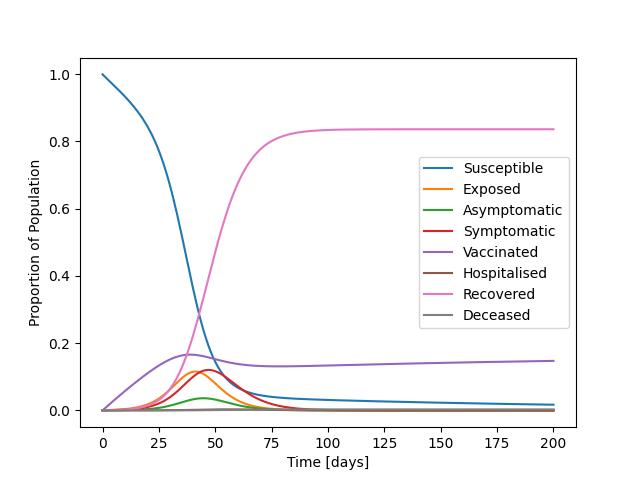
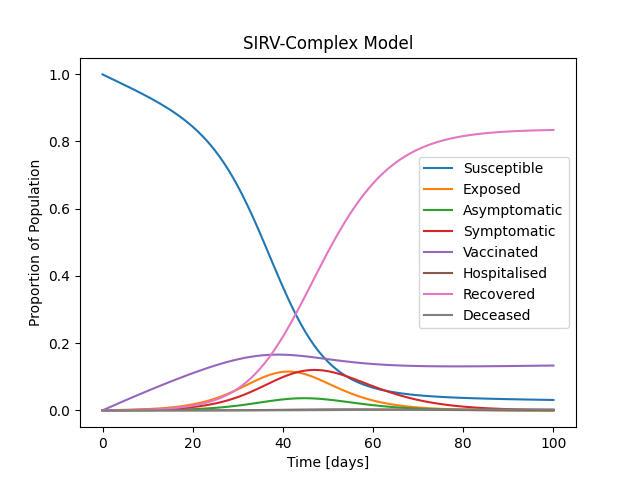
Made stochastic ODEs for noisy model and obtained likelihood values.

diff --git a/run_noisy_model.py b/run_noisy_model.py
@@ -1,22 +1,21 @@
-from models import models
+from noisy_models import noisy_models
 import numpy as np
 from scipy.integrate import solve_ivp
 
 """
-    This file runs models based on the specified model.
+    This file runs noisy models based on the specified model.
 """
 
-
-def run_model(model, population, R_0, vac_frac, nat_imm_rate, vac_ef, vaccination_rate, days=50, stochastic=False):
+def run_noisy_model(model, population, R_0, vac_frac, nat_imm_rate, vac_ef, vaccination_rate, days=50, stochastic=False, std_f=0.05):
     if model == 'sirv':
-        return run_sirv(models[model], population, R_0, vac_frac, nat_imm_rate, vac_ef, days, stochastic)
+        return run_sirv(noisy_models[model], population, R_0, vac_frac, nat_imm_rate, vac_ef, days, stochastic, std_f)
     elif model == 'sirv_c':
-        return run_sirv_c(models[model], population, R_0, vac_frac, nat_imm_rate, vac_ef, vaccination_rate, days, stochastic)
+        return run_sirv_c(noisy_models[model], population, R_0, vac_frac, nat_imm_rate, vac_ef, vaccination_rate, days, stochastic, std_f)
     else:
         raise ValueError('Model not available')
 
 
-def run_sirv(func, pop, R_0, vac_frac, nat_imm_rate, vac_ef, days, stochastic=False):
+def run_sirv(func, pop, R_0, vac_frac, nat_imm_rate, vac_ef, days, stochastic=False, std_f=0.05):
     t_span = np.array([0, days])
     t = np.linspace(t_span[0], t_span[1], t_span[1] + 1)
 
@@ -24,13 +23,7 @@ def run_sirv(func, pop, R_0, vac_frac, nat_imm_rate, vac_ef, days, stochastic=Fa
     infected = 1e3*(1-vac_frac)
     recovered = pop*nat_imm_rate
     x_0 = [susceptible, infected, recovered, (pop-susceptible-infected-recovered)]
-
-    if stochastic:
-        R_0 = np.random.normal(loc=4.5, scale=1)  # Draw an R_0 value from a Gaussian distribution
-        g = np.random.normal(loc=(1/6), scale=(1/25))  # Draw an inverse serial number from a Gaussian distribution
-        args = (R_0*g, g, vac_ef, pop)
-    else:
-        args = (R_0*(1/6), (1/6), vac_ef, pop)
+    args = (R_0*(1/6), (1/6), vac_ef, pop, std_f)
 
     solutions = solve_ivp(func, t_span, x_0, args=args, t_eval=t)
     S = solutions.y[0]
@@ -41,10 +34,10 @@ def run_sirv(func, pop, R_0, vac_frac, nat_imm_rate, vac_ef, days, stochastic=Fa
     # Returns the growth rate as the R_t for all points in time
     R_t = [((1/args[1])*((I[i+1]-I[i])/(I[i]))+1) for i in range(len(I)-1)]
     
-    return [S, I, R, V], max(R_t), args
+    return [S, I, R, V], max(R_t)
 
 
-def run_sirv_c(func, pop, R_0, vac_frac, nat_imm_rate, vac_ef, vaccination_rate, days, stochastic=False):
+def run_sirv_c(func, pop, R_0, vac_frac, nat_imm_rate, vac_ef, vaccination_rate, days, stochastic=False, std_f=0.05):
     t_span = np.array([0, days])
     t = np.linspace(t_span[0], t_span[1], t_span[1] + 1)
 
@@ -52,15 +45,7 @@ def run_sirv_c(func, pop, R_0, vac_frac, nat_imm_rate, vac_ef, vaccination_rate,
     symptomatic = 1e3*(1-vac_frac)
     recovered = pop*nat_imm_rate
     x_0 = [susceptible, 0, 0, symptomatic, 0, recovered, 0, (pop-susceptible-symptomatic-recovered), 0, 0, 0]
-
-    if stochastic:
-        g = (1/6)
-        args = (R_0*g, R_0*g, vaccination_rate, 0.083333333, 0.15, 0.1, g, g, 0.075, 0.003428571, 0.025, (1-vac_ef)*R_0*g, (1-vac_ef)*R_0*g, 0.1, 0.00035, 0.1, 0.00125, 0.2, g)
-        args = np.array(args)
-        sigmas = 0.1*args
-        args = [np.random.normal(m, s) for m, s in zip(args, sigmas)]
-    else:
-        args = (R_0*(1/6), R_0*(1/6), vaccination_rate, 0.083333333, 0.15, 0.1, (1/6), (1/6), 0.075, 0.003428571, 0.025, (1-vac_ef)*R_0*(1/6), (1-vac_ef)*R_0*(1/6), 0.1, 0.00035, 0.1, 0.00125, 0.2, (1/6))
+    args = (R_0*(1/6), R_0*(1/6), vaccination_rate, 0.083333333, 0.15, 0.1, (1/6), (1/6), 0.075, 0.003428571, 0.025, (1-vac_ef)*R_0*(1/6), (1-vac_ef)*R_0*(1/6), 0.1, 0.00035, 0.1, 0.00125, 0.2, (1/6), std_f)
     
     solutions = solve_ivp(func, t_span, x_0, args=args, t_eval=t)
     S = solutions.y[0]
@@ -78,4 +63,4 @@ def run_sirv_c(func, pop, R_0, vac_frac, nat_imm_rate, vac_ef, vaccination_rate,
     # Returns the growth rate as the R_t for all points in time
     R_t = [((1/args[6])*((A[i+1]+Sy[i+1]+A_v[i+1]+Sy_v[i+1]-A[i]-Sy[i]-A_v[i]-Sy_v[i])/(A[i]+Sy[i]+A_v[i]+Sy_v[i]))+1) for i in range(len(Sy)-1)]
     
-    return [S, E, A, Sy, H, R, D, V, A_v, Sy_v, H_v], max(R_t), args
+    return [S, E, A, Sy, H, R, D, V, A_v, Sy_v, H_v], max(R_t)

diff --git a/noisy_models.py b/noisy_models.py
@@ -1,0 +1,80 @@
+import numpy as np
+
+"""
+    This file contains all the noisy (stochastic) compartmental models.
+"""
+
+
+def sirv_odes(t, x, b, g, v_e, N, std_f=0.05):
+    S = x[0]  # Susceptible
+    I = x[1]  # Infected
+    R = x[2]  # Recovered
+    V = x[3]  # Vaccinated
+
+    b = np.random.normal(b, std_f*b)
+    g = np.random.normal(g, std_f*g)
+    v_e = np.random.normal(v_e, std_f*v_e)
+
+    dSdt = -b*(I/N)*S
+    dIdt = b*(I/N)*S - g*I + b*(1-v_e)*(I/N)*V
+    dRdt = g*I
+    dVdt = -b*(1-v_e)*(I/N)*V
+
+    return [dSdt, dIdt, dRdt, dVdt]
+
+
+def sirv_c_odes(t, x, b_a, b_sy, v, e_a, e_sy, a, g_a, g_sy, g_h, h, d_h, b_a_v, b_sy_v, a_v, h_v, g_h_v, d_h_v, g_a_v, g_sy_v, std_f):    
+    S = x[0]  # Susceptible
+    E = x[1]  # Exposed
+    A = x[2]  # Asymptomatic
+    Sy = x[3]  # Symptomatic
+    H = x[4]  # Hospitalised
+    R = x[5]  # Recovered
+    D = x[6]  # Deceased
+    V = x[7]  # Vaccinated
+    A_v = x[8]  # Asymptomatic (vaccinated)
+    Sy_v = x[9]  # Symptomatic (vaccinated)
+    H_v = x[10]  # Hospitalised (vaccinated)
+    
+    N = np.sum([S, E, A, Sy, H, R, V, A_v, Sy_v, H_v])  # Dynamic population (excludes deceased people)
+    
+    b_a = abs(np.random.normal(b_a, std_f*b_a))
+    b_sy = abs(np.random.normal(b_sy, std_f*b_sy))
+    v = abs(np.random.normal(v, std_f*v))
+    e_a = abs(np.random.normal(e_a, std_f*e_a))
+    e_sy = abs(np.random.normal(e_sy, std_f*e_sy))
+    a = abs(np.random.normal(a, std_f*a))
+    g_a = abs(np.random.normal(g_a, std_f*g_a))
+    g_sy = abs(np.random.normal(g_sy, std_f*g_sy))
+    g_h = abs(np.random.normal(g_h, std_f*g_h))
+    h = abs(np.random.normal(h, std_f*h))
+    d_h = abs(np.random.normal(d_h, std_f*d_h))
+    b_a_v = abs(np.random.normal(b_a_v, std_f*b_a_v))
+    b_sy_v = abs(np.random.normal(b_sy_v, std_f*b_sy_v))
+    a_v = abs(np.random.normal(a_v, std_f*a_v))
+    h_v = abs(np.random.normal(h_v, std_f*h_v))
+    g_h_v = abs(np.random.normal(g_h_v, std_f*g_h_v))
+    d_h_v = abs(np.random.normal(d_h_v, std_f*d_h_v))
+    g_a_v = abs(np.random.normal(g_a_v, std_f*g_a_v))
+    g_sy_v = abs(np.random.normal(g_sy_v, std_f*g_sy_v))
+
+    dSdt = - b_a*((A+A_v)/N)*S - b_sy*((Sy+Sy_v)/N)*S - v*S
+    dEdt = b_a*((A+A_v)/N)*S + b_sy*((Sy+Sy_v)/N)*S - e_a*E - e_sy*E
+    dAdt = e_a*E - a*A - g_a*A
+    dSydt = e_sy*E + a*A - g_sy*Sy - h*Sy
+    dHdt = h*Sy - g_h*H - d_h*H
+    dRdt = g_a*A + g_sy*Sy + g_h*H + g_h_v*H_v + g_a_v*A_v + g_sy_v*Sy_v
+    dDdt = d_h*H + d_h_v*H_v
+    dVdt = v*S - b_a_v*((A+A_v)*V)/N - b_sy_v*((Sy+Sy_v)*V)/N
+    dA_vdt = b_a_v*((A+A_v)*V)/N - a_v*A_v - g_a_v*A_v
+    dSy_vdt = b_sy_v*((Sy+Sy_v)*V)/N + a_v*A_v - h_v*Sy_v - g_sy_v*Sy_v
+    dH_vdt = h_v*Sy_v - g_h_v*H_v - d_h_v*H_v
+
+    return [dSdt, dEdt, dAdt, dSydt, dHdt, dRdt, dDdt, dVdt, dA_vdt, dSy_vdt, dH_vdt]
+
+
+# This dictionary stores the function name for each model
+noisy_models = {
+    'sirv': sirv_odes,  # simple SIRV model
+    'sirv_c': sirv_c_odes  # SIRV model with separate paths for vaccinated people
+}

diff --git a/likelihood_testing.py b/likelihood_testing.py
@@ -1,0 +1,53 @@
+from run_model import run_model
+from run_noisy_model import run_noisy_model
+import matplotlib.pyplot as plt
+import argparse
+import numpy as np
+import scipy.stats as st
+
+"""
+    This file is used to test the likelihood function.
+"""
+
+
+def use_args(args):
+    t_span = np.array([0, args.days])
+    t = np.linspace(t_span[0], t_span[1], t_span[1] + 1)
+    
+    generated_model = np.array(run_noisy_model('sirv_c', population=1000e3, R_0=3.5, vac_frac=0, nat_imm_rate=0, vac_ef=0.8, vaccination_rate=0.006, days=args.days, std_f=args.noise)[0])
+    S, E, A, Sy, H, R, D, V, A_v, Sy_v, H_v = generated_model
+    N = S + E + A + Sy + H + R + V + A_v + Sy_v + H_v
+    generated_model_infected_symptomatic = generated_model[3] + generated_model[9]
+    plt.plot(t, generated_model_infected_symptomatic/N, '.', label='Generated Data', color='black')
+    
+    solutions = []
+    arguments = []
+    for i in range(1000):
+        model_results = run_model('sirv_c', population=1000e3, R_0=3.5, vac_frac=0, nat_imm_rate=0, vac_ef=0.8, vaccination_rate=0.006, days=args.days, stochastic=True)
+        solutions.append(np.array(model_results[0]))
+        arguments.append(model_results[2])
+        S, E, A, Sy, H, R, D, V, A_v, Sy_v, H_v = solutions[i]
+        N = S + E + A + Sy + H + R + V + A_v + Sy_v + H_v
+        plt.plot(t, (Sy+Sy_v)/N, alpha=0.1, color='green')
+        print('Done:', i+1,'/1000')
+    
+    solutions = np.array(solutions)
+    infected_curves = solutions[:,3]+solutions[:,9]  # symptomatic: non-vaccinated[,3] and vaccinated[,9]
+    sums_of_square_of_residuals = [np.sum((generated_model_infected_symptomatic-m)**2) for m in solutions]
+    print('Iteration No.:', np.argmin(sums_of_square_of_residuals))
+    print('Arguments:', arguments[np.argmin(sums_of_square_of_residuals)])
+    plt.title('Symptomatic Infections Curves')
+    plt.xlabel('Time [days]')
+    plt.ylabel('Proportion of Population')
+    plt.legend()
+    plt.savefig('Plots/likelihood_'+str(args.noise)+'.png')
+    plt.show()
+
+
+if __name__ == '__main__':
+    parser = argparse.ArgumentParser(description='Georgios Alevras: Confidence Interval Experiment',
+                                     epilog='Enjoy the script :)')
+    parser.add_argument('-d', '--days', type=int, help='Number of days of model to run')
+    parser.add_argument('-n', '--noise', type=float, help='Noise, as a fraction of value')
+    arguments = parser.parse_args()  # Parses all arguments provided at script on command-line
+    use_args(arguments)  # Executes code according to arguments provided

diff --git a/plot_noisy_models.py b/plot_noisy_models.py
@@ -1,17 +1,17 @@
-from run_model import run_model
+from run_noisy_model import run_noisy_model
 import matplotlib.pyplot as plt
 import argparse
 import numpy as np
 
 """
-    This file is used to plot compartmental models and see dynamics / time-evolutions of different compartments.
+    This file is used to plot noisy (stochastic) compartmental models and see dynamics / time-evolutions of different compartments.
 """
 
 
 def use_args(args):
     t_span = np.array([0, args.days])
     t = np.linspace(t_span[0], t_span[1], t_span[1] + 1)
-    solutions = run_model('sirv_c', population=1000e3, R_0=3.5, vac_frac=0, nat_imm_rate=0, vac_ef=0.8, vaccination_rate=0.006, days=args.days)[0]
+    solutions = run_noisy_model('sirv_c', population=1000e3, R_0=3.5, vac_frac=0, nat_imm_rate=0, vac_ef=0.8, vaccination_rate=0.006, days=args.days, std_f=args.noise)[0]
     S, E, A, Sy, H, R, D, V, A_v, Sy_v, H_v = solutions
     N = S + E + A + Sy + H + R + V + A_v + Sy_v + H_v
     print('Deceased:', round(D[-1], 0))  # Total number of deaths during 'pandemic'
@@ -24,11 +24,11 @@ def use_args(args):
     plt.plot(t, (H+H_v)/N, label='Hospitalised')
     plt.plot(t, R/N, label='Recovered')
     plt.plot(t, D/N, label='Deceased')
-    plt.title('SIRV-Complex Model')
+    plt.title('SIRV-Complex Noisy Model')
     plt.xlabel('Time [days]')
     plt.ylabel('Proportion of Population')
     plt.legend()
-    plt.savefig('Plots/sirv_c.png')
+    plt.savefig('Plots/sirv_c_noisy_'+str(args.noise)+'.png')
     plt.show()
 
 
@@ -36,5 +36,6 @@ if __name__ == '__main__':
     parser = argparse.ArgumentParser(description='Georgios Alevras: Plotter of Compartmental Models',
                                      epilog='Enjoy the script :)')
     parser.add_argument('-d', '--days', type=int, help='Number of days of model to run')
+    parser.add_argument('-n', '--noise', type=float, help='Noise, as a fraction of value')
     arguments = parser.parse_args()  # Parses all arguments provided at script on command-line
     use_args(arguments)  # Executes code according to arguments provided

diff --git a/confidence_intervals_experiment.py b/confidence_intervals_experiment.py
@@ -22,13 +22,13 @@ def use_args(args):
     solutions = np.array(solutions)
     infected_curves = solutions[:,3]+solutions[:,9]  # symptomatic: non-vaccinated[,3] and vaccinated[,9]
     infected_curves_time_series = [infected_curves[:,i] for i in range(len(infected_curves[0]))]
-    mean = [np.mean(el) for el in infected_curves_time_series]
-    confidence_curve_low = [(st.t.interval(alpha=0.95, df=len(el)-1, loc=np.mean(el), scale=np.std(el)))[0] for el in infected_curves_time_series]
-    confidence_curve_high = [(st.t.interval(alpha=0.95, df=len(el)-1, loc=np.mean(el), scale=np.std(el)))[1] for el in infected_curves_time_series]
-    plt.title(r'$SIRV \: Complex \: Model \:- \: Stochastic \: R_0 \: Time \: Evolution$')
+    fiftieth_percentile = [np.percentile(el, 50) for el in infected_curves_time_series]
+    confidence_curve_low = [np.percentile(el, 2.5) for el in infected_curves_time_series]
+    confidence_curve_high = [np.percentile(el, 97.5) for el in infected_curves_time_series]
+    plt.title(r'$Stochastic \: Parameters \: Confidence \: Interval$')
     plt.xlabel('Time [days]')
     plt.ylabel('Proportion of Population')
-    plt.plot(t, mean/N, '--', label='mean', linewidth=2, color='black')
+    plt.plot(t, fiftieth_percentile/N, '--', label='mean', linewidth=2, color='black')
     plt.plot(t, confidence_curve_low/N, '--', label='a=2.5%', linewidth=2, color='red')
     plt.plot(t, confidence_curve_high/N, '--', label='a=97.5%', linewidth=2, color='blue')
     plt.legend()

diff --git a/generate_simulated_data.py b/generate_simulated_data.py
@@ -12,7 +12,7 @@ def use_args(args):
     N = S + E + A + Sy + H + R + V + A_v + Sy_v + H_v
     infected = solutions[3] + solutions[9]
     signal = infected
-    noise = signal - np.random.normal(signal, 0.05*signal)
+    noise = signal - np.random.normal(signal, args.std*signal)
     simulated_data = signal + noise
     plt.plot(t, infected/N, label='Model Signal')
     plt.plot(t, simulated_data/N, '.', label='Simulated Data')
@@ -28,5 +28,6 @@ if __name__ == '__main__':
     parser = argparse.ArgumentParser(description='Georgios Alevras: Generation of Model Data',
                                      epilog='Enjoy the script :)')
     parser.add_argument('-d', '--days', type=int, help='Number of days of model to run')
+    parser.add_argument('-s', '--std', type=float, help='Standard deviation as fraction of mean')
     arguments = parser.parse_args()  # Parses all arguments provided at script on command-line
     use_args(arguments)  # Executes code according to arguments provided
